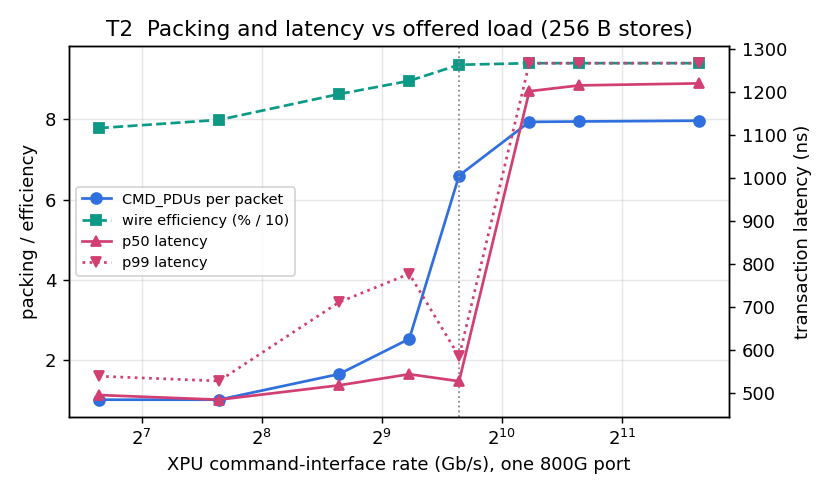
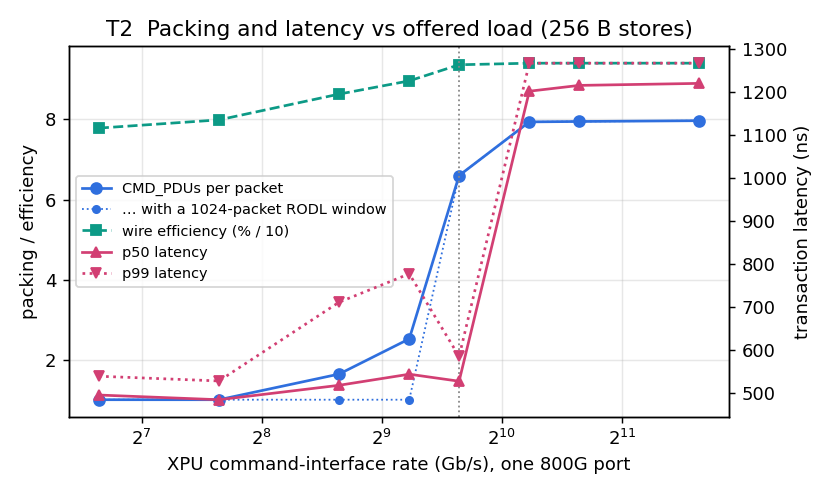
M3 T2: packing below the port rate comes from the RODL window, not the port
At 400-600 G a 64-packet window of single-store packets closes before the first ACK
returns, so the backlog goes out as full packets: a bimodal histogram and a 200 ns p99
rise. Add a window-1024 sweep to the table and plot, explain the three regimes, add
the window to the decisions list (M3-11) and a test for the effect.

Changed region(s): [[0.0938, 0.334, 0.4688, 0.6073], [0.375, 0.7895, 0.4375, 0.8198], [0.4688, 0.7895, 0.5, 0.8198]]

diff --git a/tools/run_m3.py b/tools/run_m3.py
@@ -85,9 +85,16 @@ def t2_packing_vs_load():
         f.run(30_000_000)
         r = f.result()
         res[g] = summary(r, {"goodput_gbps": round(r.payload_bytes * 8 / r.finished_ns, 1), "pack_hist": r.pack_hist})
+        # the same with a RODL window that never closes: the packing that remains is the port's, not the window's
+        f = Fabric(n=2, workload=AllToAll(2, bytes_per_peer=1 << 20, senders=[0]), suet=SUETCfg(xpu_gbps=g, window=1024))
+        f.run(30_000_000)
+        r = f.result()
+        res[g]["window_1024"] = {"pack_avg": round(r.pack_avg, 2), "efficiency": round(r.efficiency, 4),
+                                 "lat_p50_ns": round(r.lat_p50_ns, 1), "lat_p99_ns": round(r.lat_p99_ns, 1)}
     fig, a1 = plt.subplots(figsize=(6.4, 3.8))
     a2 = a1.twinx()
     a1.plot(rates, [res[g]["pack_avg"] for g in rates], "o-", color="#2f6fde", label="CMD_PDUs per packet")
+    a1.plot(rates, [res[g]["window_1024"]["pack_avg"] for g in rates], "o:", color="#2f6fde", lw=1, ms=4, label="… with a 1024-packet RODL window")
     a1.plot(rates, [100 * res[g]["efficiency"] / 10 for g in rates], "s--", color="#0c9a86", label="wire efficiency (% / 10)")
     a2.plot(rates, [res[g]["lat_p50_ns"] for g in rates], "^-", color="#d23f73", label="p50 latency")
     a2.plot(rates, [res[g]["lat_p99_ns"] for g in rates], "v:", color="#d23f73", label="p99 latency")

diff --git a/tests/test_suet.py b/tests/test_suet.py
@@ -31,6 +31,18 @@ def test_packing_is_opportunistic_and_bounded():
     assert r.pack_hist == {1: r.ep["tx_pkts"] - r.ep["acks_tx"]}
 
 
+def test_below_the_port_rate_only_a_closed_rodl_window_makes_packets_pack():
+    """One XPU writing 256 B stores at half the port rate: on its own every store would go out alone, but
+    64 single-store packets are in flight before the first ACK (~0.5 µs) returns, so the PDC stalls on
+    its window and the backlog goes out as full 2 KB packets: a bimodal histogram (T2).  A window that
+    never closes removes every multi-PDU packet."""
+    wl = lambda: AllToAll(2, bytes_per_peer=131072, senders=[0])  # noqa: E731
+    f, r = run(n=2, wl=wl(), suet=SUETCfg(xpu_gbps=400, window=64))
+    assert r.pack_hist[1] > 200 and r.pack_hist[8] > 10 and r.pack_avg > 1.3
+    f, r2 = run(n=2, wl=wl(), suet=SUETCfg(xpu_gbps=400, window=256))
+    assert r2.pack_hist == {1: 512} and r2.lat_p99_ns < r.lat_p99_ns and r2.efficiency < r.efficiency
+
+
 def test_wire_bytes_match_the_accounting():
     """One-way traffic, one store per packet: every request is the 300 B frame sim/wire.py predicts,
     every bare ACK 64 B, and the efficiency lands between "an ACK per packet" and "ACKs for free"."""

diff --git a/docs/experiments/suet-endpoint.md b/docs/experiments/suet-endpoint.md
@@ -47,24 +47,30 @@ Same payload, same wire: a 1 KB transfer is four packed 256 B stores in SUE-T (9
 
 ## T2. Packing is opportunistic: what the load decides (§7.2.3, §7.3)
 
-Two XPUs, one way, 1 MB of 256 B stores, operational ACKs over UFH_16; the XPU command interface swept from 100 Gb/s to 3.2 Tb/s into one 800G port. The scheduler never waits to pack.
+Two XPUs, one way: XPU A writes 1 MB to XPU B as 4096 stores of 256 B, operational ACKs over UFH_16, one 800G port. The knob is how fast A's command interface hands stores to SUE-T, swept from 100 Gb/s to 3.2 Tb/s; below 800 G the XPU is the bottleneck, above it the port is. The scheduler never waits to pack: a store that finds the port free goes out alone, and a packet carries more only if stores piled up while the port was busy or blocked. *Latency* is from the XPU handing over a store to its ACK arriving, so time spent in the 64 KB transmit buffer counts. *Packets* counts both directions; the receiver holds a bare ACK for 100 ns and ACKs are cumulative, so one ACK covers every packet that arrived meanwhile.
 
 *Predict: at what interface rate does the average packet carry more than one transaction, and what happens to latency when the XPU outruns the port?*
 
 ![T2](img/m3-t2-packing.png)
 
-| XPU interface | CMD_PDUs / packet | Wire efficiency | Goodput (Gb/s) | p50 latency | p99 latency | Packets |
-|---|---|---|---|---|---|---|
-| 100 G | 1.00 | 77.8 % | 94 | 495 ns | 539 ns | 4916 |
-| 200 G | 1.00 | 79.9 % | 186 | 484 ns | 528 ns | 4506 |
-| 400 G | 1.64 | 86.3 % | 367 | 518 ns | 711 ns | 2657 |
-| 600 G | 2.52 | 89.6 % | 547 | 543 ns | 777 ns | 1747 |
-| 800 G | 6.60 | 93.7 % | 718 | 527 ns | 585 ns | 720 |
-| 1.2 T | 7.94 | 94.1 % | 724 | 1201 ns | 1266 ns | 619 |
-| 1.6 T | 7.95 | 94.1 % | 724 | 1215 ns | 1266 ns | 618 |
-| 3.2 T | 7.97 | 94.1 % | 724 | 1219 ns | 1266 ns | 617 |
+| XPU interface | CMD_PDUs / packet | Wire efficiency | Goodput (Gb/s) | p50 latency | p99 latency | Packets | CMD_PDUs / packet, window 1024 | Efficiency, window 1024 | p99, window 1024 |
+|---|---|---|---|---|---|---|---|---|---|
+| 100 G | 1.00 | 77.8 % | 94 | 495 ns | 539 ns | 4916 | 1.00 | 77.8 % | 539 ns |
+| 200 G | 1.00 | 79.9 % | 186 | 484 ns | 528 ns | 4506 | 1.00 | 79.9 % | 528 ns |
+| 400 G | 1.64 | 86.3 % | 367 | 518 ns | 711 ns | 2657 | 1.00 | 80.9 % | 522 ns |
+| 600 G | 2.52 | 89.6 % | 547 | 543 ns | 777 ns | 1747 | 1.00 | 81.3 % | 520 ns |
+| 800 G | 6.60 | 93.7 % | 718 | 527 ns | 585 ns | 720 | 6.60 | 93.7 % | 585 ns |
+| 1.2 T | 7.94 | 94.1 % | 724 | 1201 ns | 1266 ns | 619 | 7.94 | 94.1 % | 1266 ns |
+| 1.6 T | 7.95 | 94.1 % | 724 | 1215 ns | 1266 ns | 618 | 7.95 | 94.1 % | 1266 ns |
+| 3.2 T | 7.97 | 94.1 % | 724 | 1219 ns | 1266 ns | 617 | 7.97 | 94.1 % | 1266 ns |
 
-**Takeaway.** Below half the port rate every transaction travels alone (78 % with a bare ACK per packet, as T1 predicts). Packing appears exactly when transactions queue behind the port, and reaches the 2 KB cap (eight stores) once the XPU interface is faster than the port. The price is the queue: with the XPU at 1.2 T or more, the 64 KB transmit buffer stays full and p50 latency goes from 0.5 to 1.2 µs. §7.2.3's "more buffering increases the opportunity to pack" is exactly this trade; the lever is the transmit buffer size, not the scheduler.
+Three regimes:
+
+- **Below half the port rate (100–200 G)**: a store arrives every 11–22 ns and a single-store packet takes 3.1 ns to send, so the port is idle most of the time and every store travels alone. Efficiency is T1's one-packed figure, 78–80 % (between the bare-ACK 65 % and the piggybacked 82 %, because one ACK covers about five packets). Goodput is the interface rate minus the 16 B command word per store. Latency is the floor: four hops of about 65 ns, 150 ns at the receiver, up to 100 ns waiting for the ACK to go out.
+- **Between half and the full port rate (400–600 G)**: the port is still faster than the XPU, so nothing should queue, and with a large RODL window nothing does (1.00 CMD_PDUs per packet, 81 %). The packing in the main columns is an artefact of the **64-packet window**: at 400 G the PDC puts 64 single-store packets on the wire in 350 ns, less than the 0.5 µs it takes the first ACK to come back, and stalls. The stores that arrive during the stall go out as full 2 KB packets when the window reopens, which is why the histogram is bimodal (2219 packets of one store, 193 of eight, almost nothing in between), and why p99 latency rises 200 ns while p50 barely moves. 64 packets × 256 B is 16 KB, below the bandwidth-delay product of a 400 G stream over this round trip (25 KB); a window counted in packets is a window counted in bytes only for large packets.
+- **At and above the port rate (800 G and up)**: the port is the bottleneck, so a queue forms whatever the window. At exactly 800 G the packing settles at 6.6 per packet, which is where the port's per-store cost (a 7-store packet is 1896 B on the wire, 2.71 ns per store) equals the arrival interval (2.72 ns); the queue stays short and latency stays at the floor. Beyond that the queue grows until the 64 KB transmit buffer is full and the XPU is held back. Every store then waits for 64 KB ahead of it to drain through the port (about 0.7 µs), so p50 latency goes from 0.5 to 1.2 µs. Packing is at the 2 KB cap and the forward wire is 94 % payload.
+
+**Takeaway.** Packing is a side-effect of a queue, and the queue has two causes: a port slower than the XPU (the one §7.2.3 and §7.3 talk about), and a RODL window that closes while the port is idle (which the spec does not mention, and which with 256 B packets happens at half the port rate). The first buys 94 % wire efficiency for 0.7 µs of transmit-buffer latency; §7.2.3's "more buffering increases the opportunity to pack" is exactly that trade, and the lever is `tx_buf`. The second buys efficiency with tail latency: 86 % and a 711 ns p99 at 400 G against 81 % and 522 ns with a window that never closes. An implementation that sizes the hold buffer in packets should size it for its smallest packet, or expect the oscillation seen here.
 
 ## T3. ACK mode and header stack under all-to-all
 
@@ -172,6 +178,7 @@ Each one is a choice the spec leaves open. Change it and rerun `tools/run_m3.py`
 | M3-8 | Switch | VOQ, store-and-forward, 0 ns pipeline, 64 KB per VC per ingress port | Add RM104's 250 ns pipeline budget; cut-through; shared buffer | `Fabric(pipeline_ns=…)` |
 | M3-9 | XPU side | 1.6 T command interface, 64 KB TX buffer, 50 ns unpack, 100 ns to execute a command | Anything; the TX buffer is the packing-vs-latency lever (T2) | `SUETCfg.xpu_gbps`, `tx_buf`, `rx_ns`, `xpu_ns` |
 | M3-10 | Not modelled | Encryption, CRC time, DMA out of HBM, multiple SUE-T instances per XPU, the control channel (§7.7), jobid checks | — | — |
+| M3-11 | RODL window | 64 packets per PDC, whatever their size (the hold buffer of §7.2.2 counted in packets) | Count it in bytes, or more packets; T2 shows what 64 does to a stream of small packets at half the port rate | `SUETCfg.window` |
 
 ## Next
 
